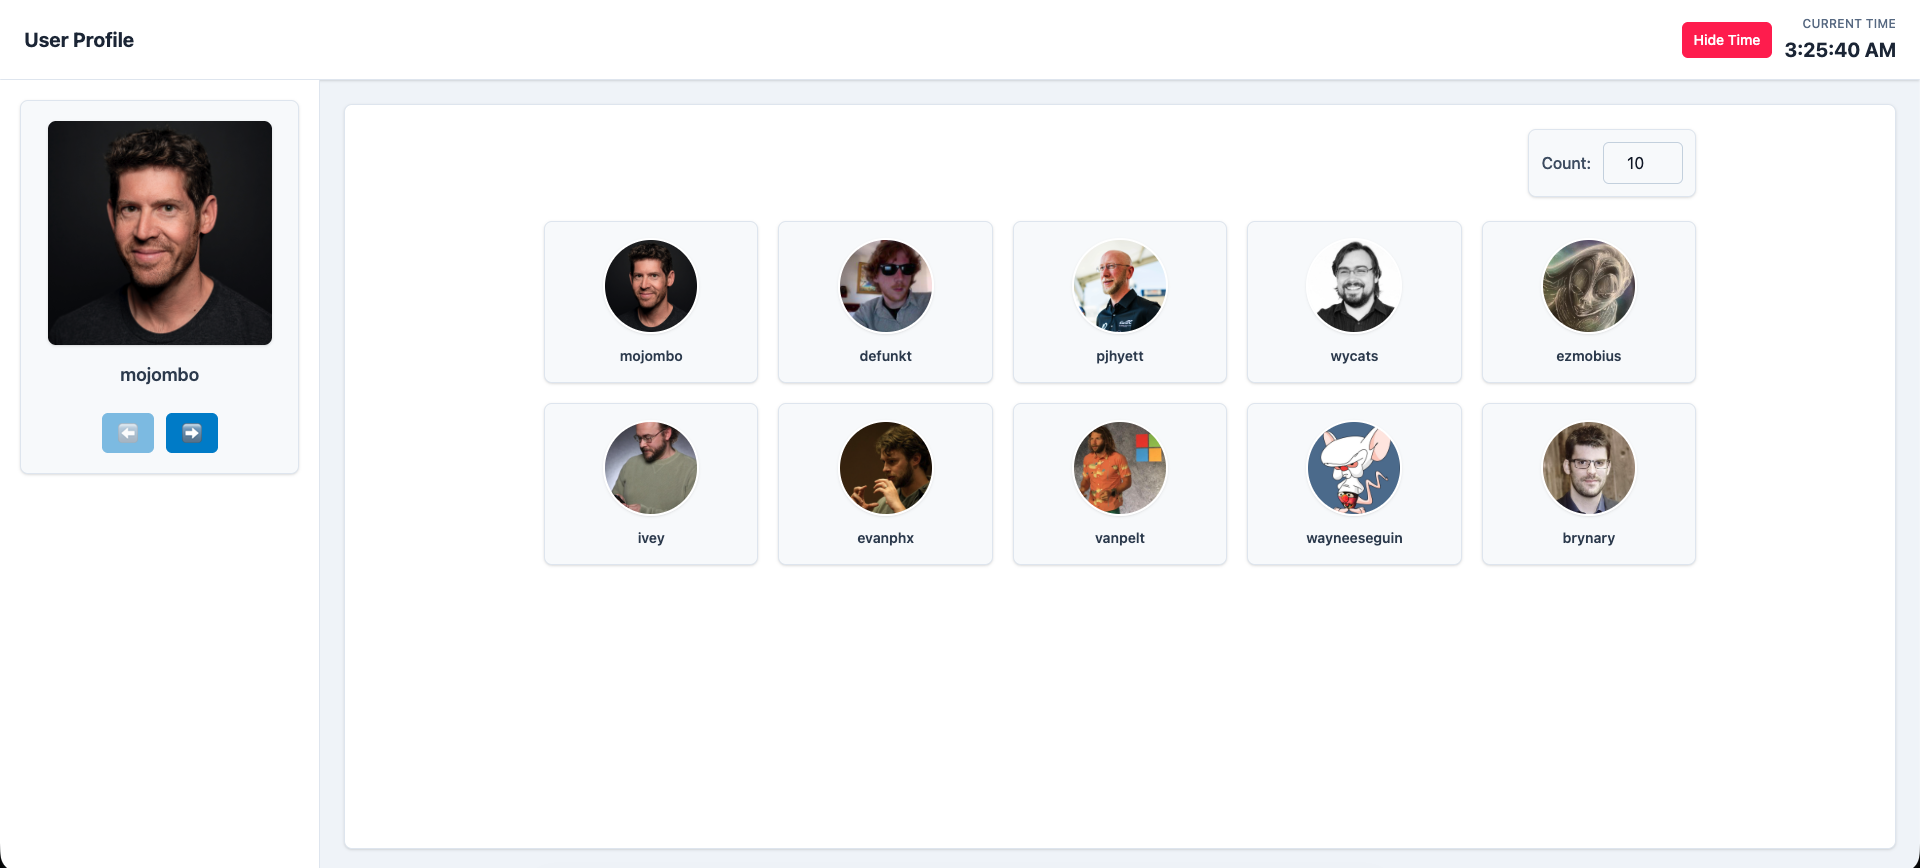
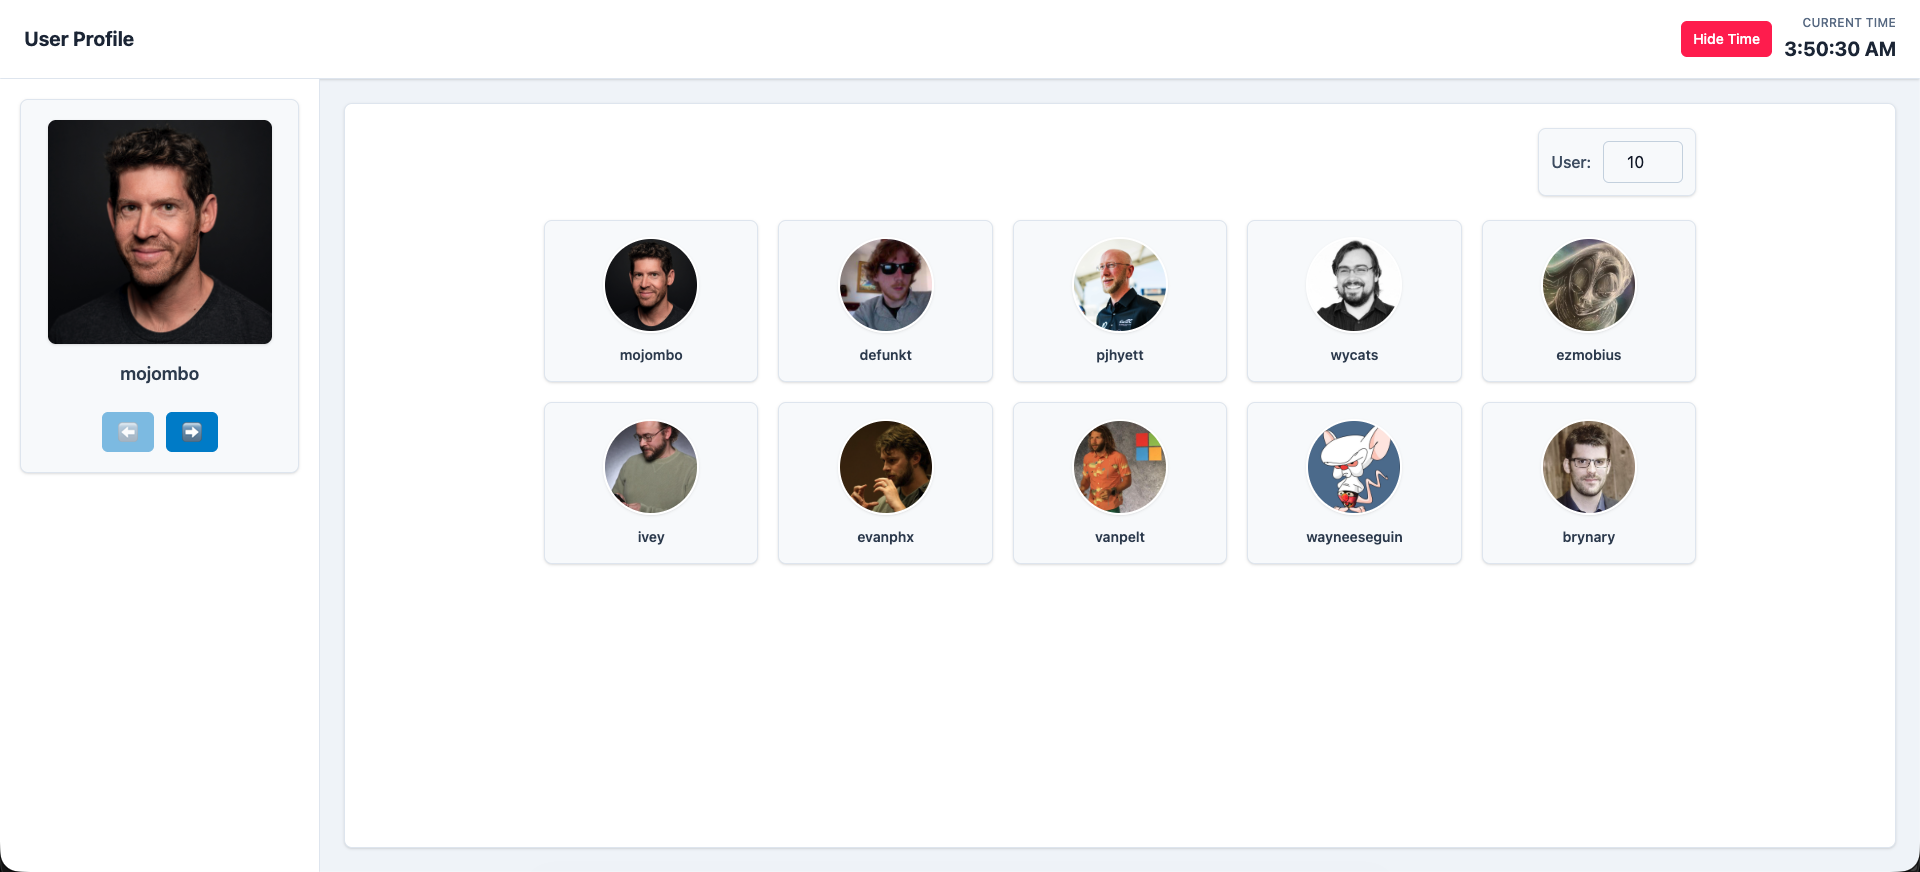
count to user

diff --git a/src/Son.jsx b/src/Son.jsx
@@ -6,7 +6,7 @@ function Son({ count, setCount }) {
   return (
     <div className="flex items-center justify-center">
       <div className="flex items-center gap-3 rounded-lg border border-slate-200 bg-slate-50 p-3 shadow-sm">
-        <label className="font-medium text-slate-600">Count:</label>
+        <label className="font-medium text-slate-600">User:</label>
 
         <input
           type="number"
